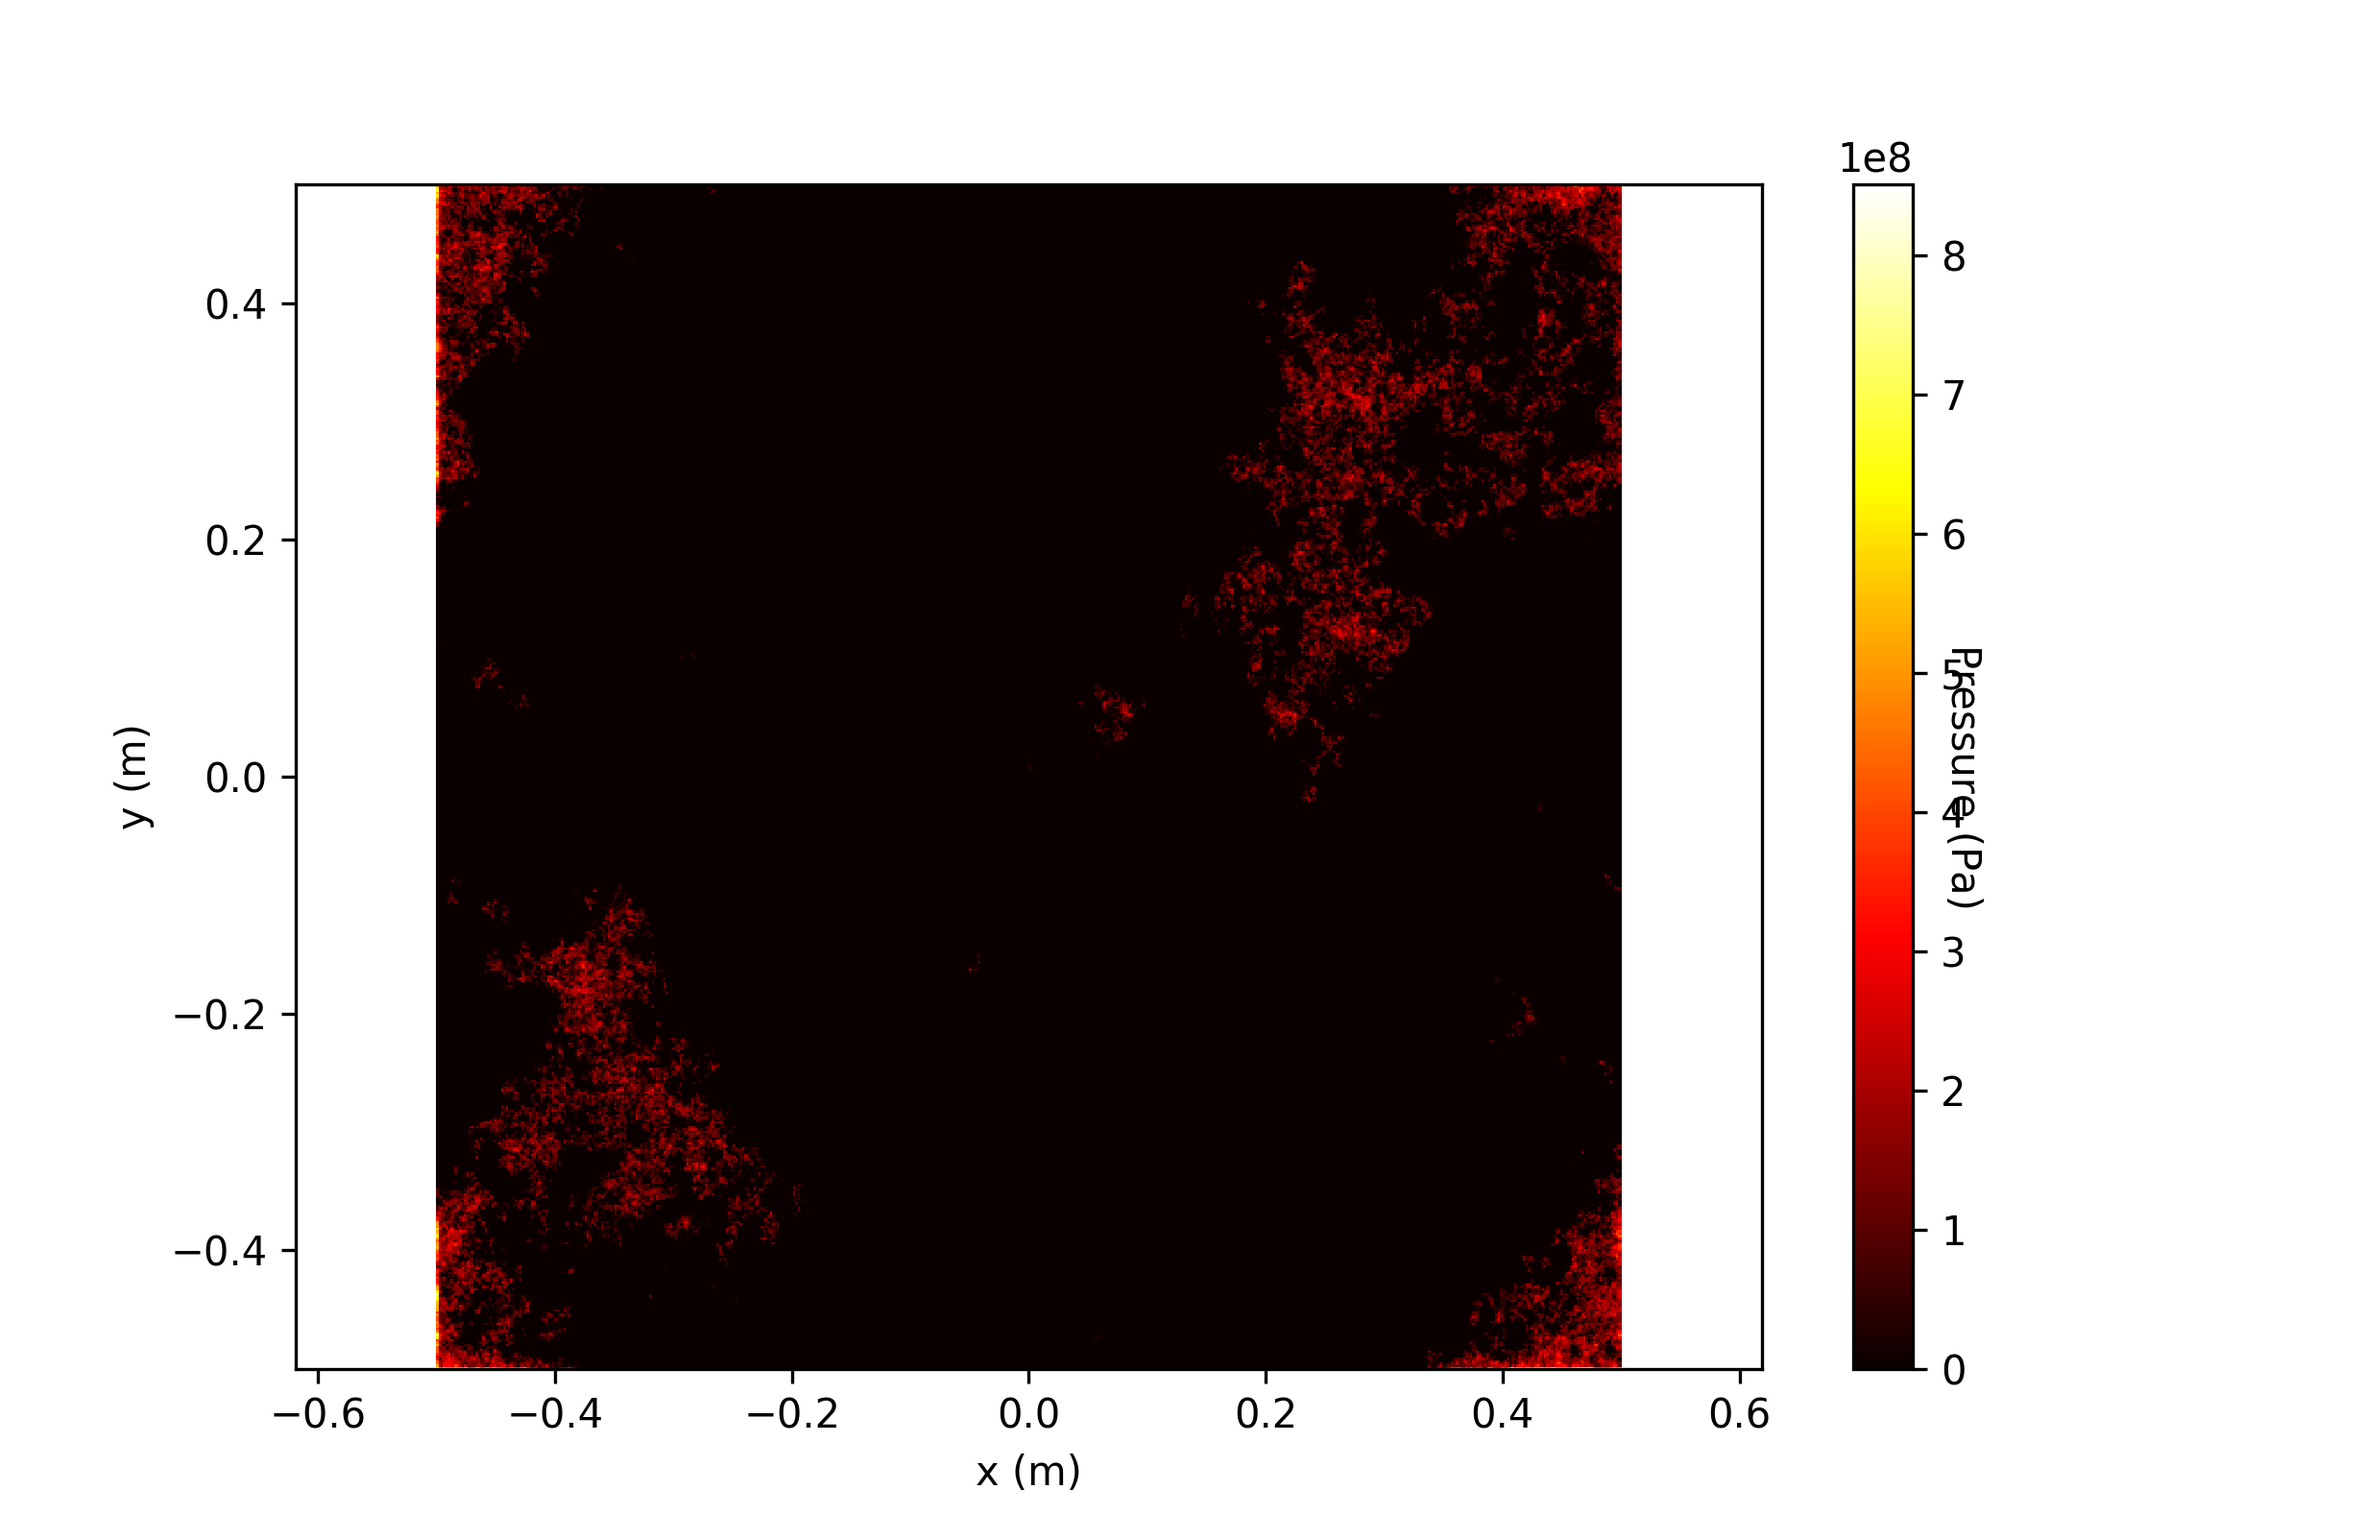
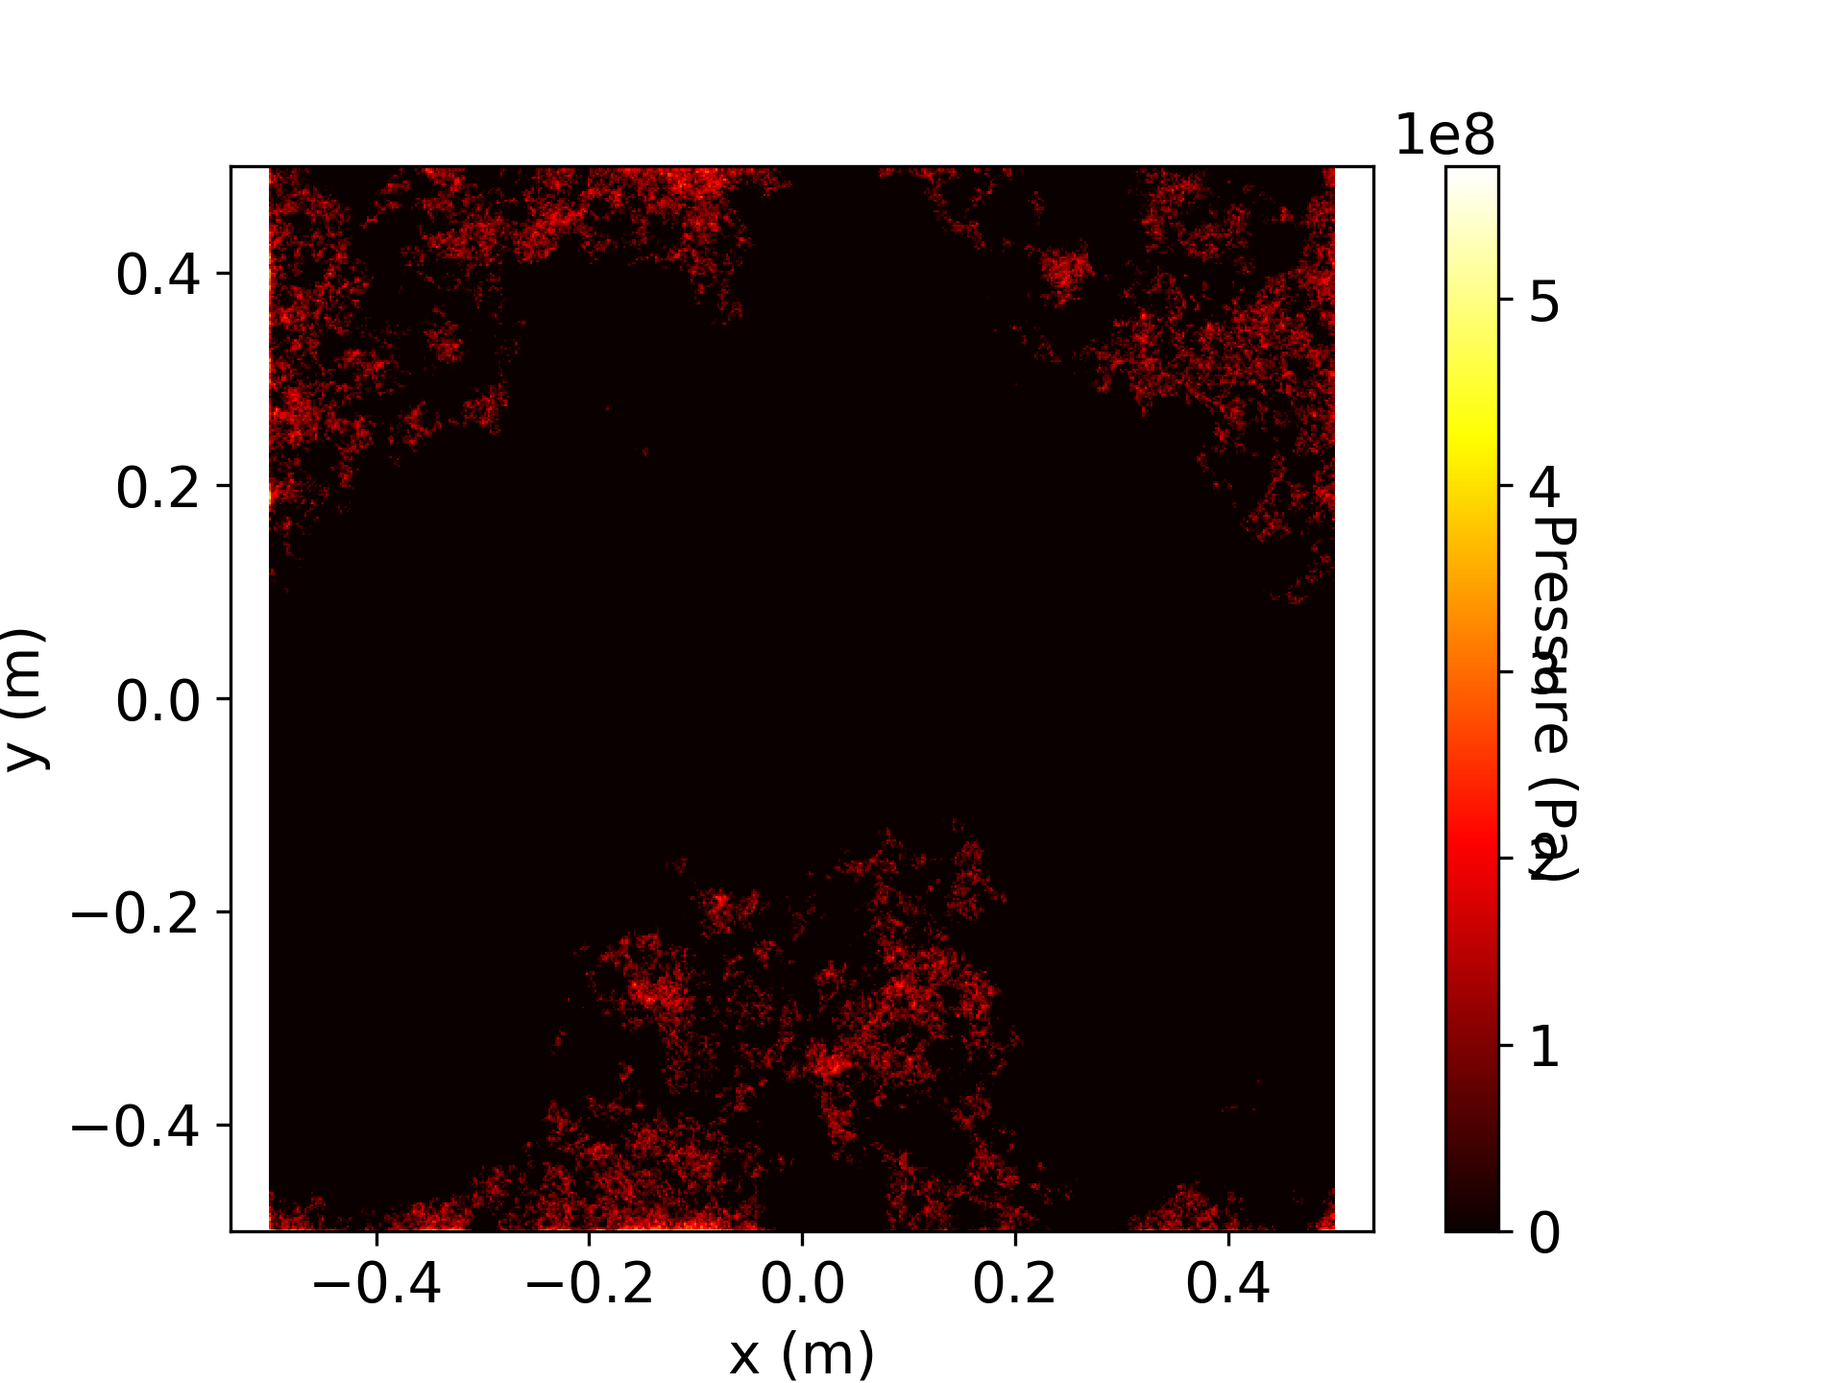
corresponding pressure plot

diff --git a/examples/example_contact.py b/examples/example_contact.py
@@ -21,7 +21,7 @@ nominal_stress = 1.0E7
 contact = bc.contact_FFT(surface, nominal_stress, E, nu, verbose=1, err_lim=1.0E-8)
 
 
-if 1:
+if 0:
     fig, ax = plt.subplots()
     bplt.traces(ax, surface.h, [contact.u], 128)
     unit_den = '(m)'
@@ -30,7 +30,7 @@ if 1:
     plt.legend()
     plt.show()
 
-if 0:
+if 1:
     fig, ax = plt.subplots()
     N = surface.shape[0]
     L = surface.length()
@@ -41,7 +41,7 @@ if 0:
     unit_den = '(m)'
     ax.set_xlabel('x ' + unit_den)
     ax.set_ylabel('y ' + unit_den)
-    cbar = bplt.colorbar(pressure_plot)
+    cbar = plt.colorbar(pressure_plot)
     cbar.set_label('Pressure (Pa)', rotation=270)
     plt.show()
 

diff --git a/README.md b/README.md
@@ -80,7 +80,7 @@ contact = bc.contact_FFT(surface, nominal_stress, E, nu, verbose=1)
 For a more detailed snippet see `example_analysis.py`.
 
 <p align="left">
-  <img src="https://raw.githubusercontent.com/plang85/rough_surfaces/master/doc/contact.png" height="300">
+  <img src="https://raw.githubusercontent.com/plang85/rough_surfaces/master/doc/contact.png" height="400">
   <br/>
 </p>
 <p align="left">
